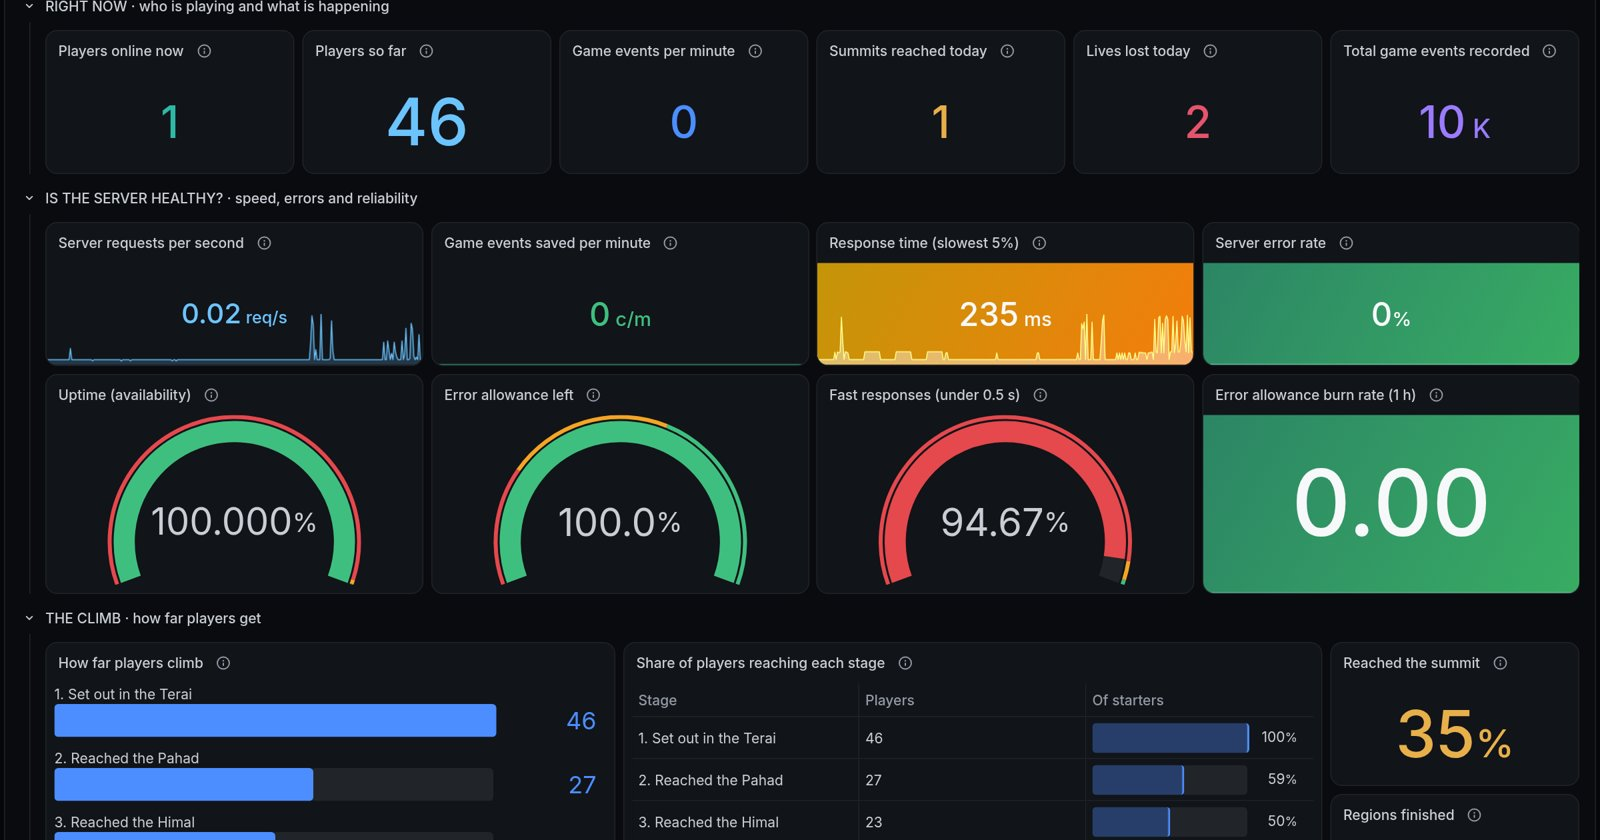
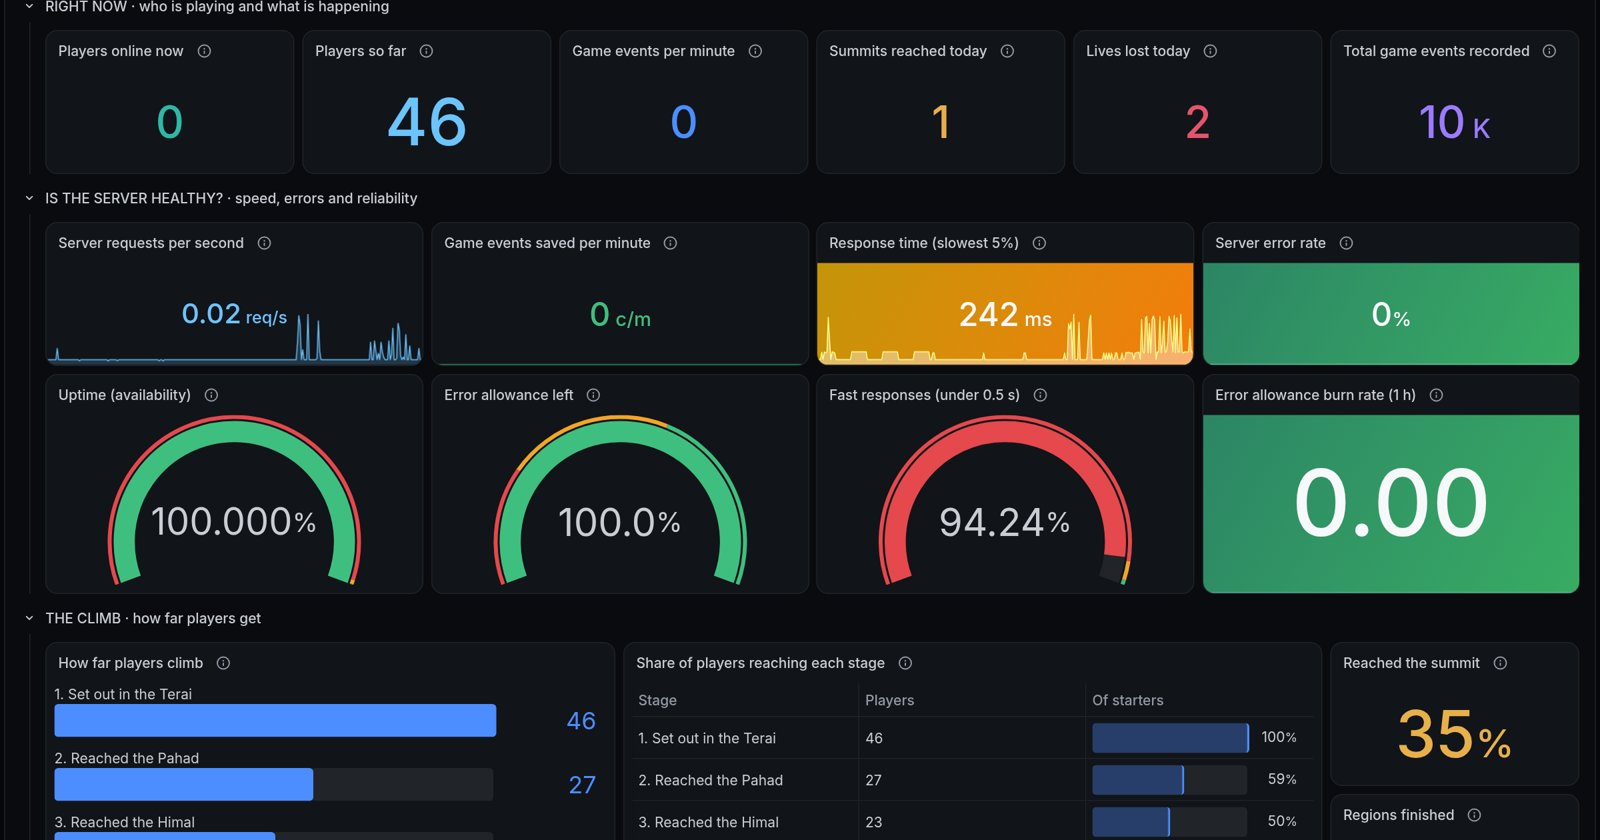
Update dashboard link

diff --git a/README.md b/README.md
@@ -10,7 +10,7 @@ you play.
 **Play it:** [cloud-yatra.pages.dev](https://cloud-yatra.pages.dev). It works with a keyboard on
 desktop and with on-screen controls on phones and tablets (use landscape).
 
-**Live dashboard:** [public Grafana dashboard](https://curioushalibut2108.grafana.net/public-dashboards/0bb04daf3f764307b6d0cea76a3de49e),
+**Live dashboard:** [public Grafana dashboard](https://curioushalibut2108.grafana.net/public-dashboards/f5c517acdff94f6d8f5cfb99683c6ef2),
 also embedded below the game.
 
 All art and audio are original and generated in code. There are no asset files.
